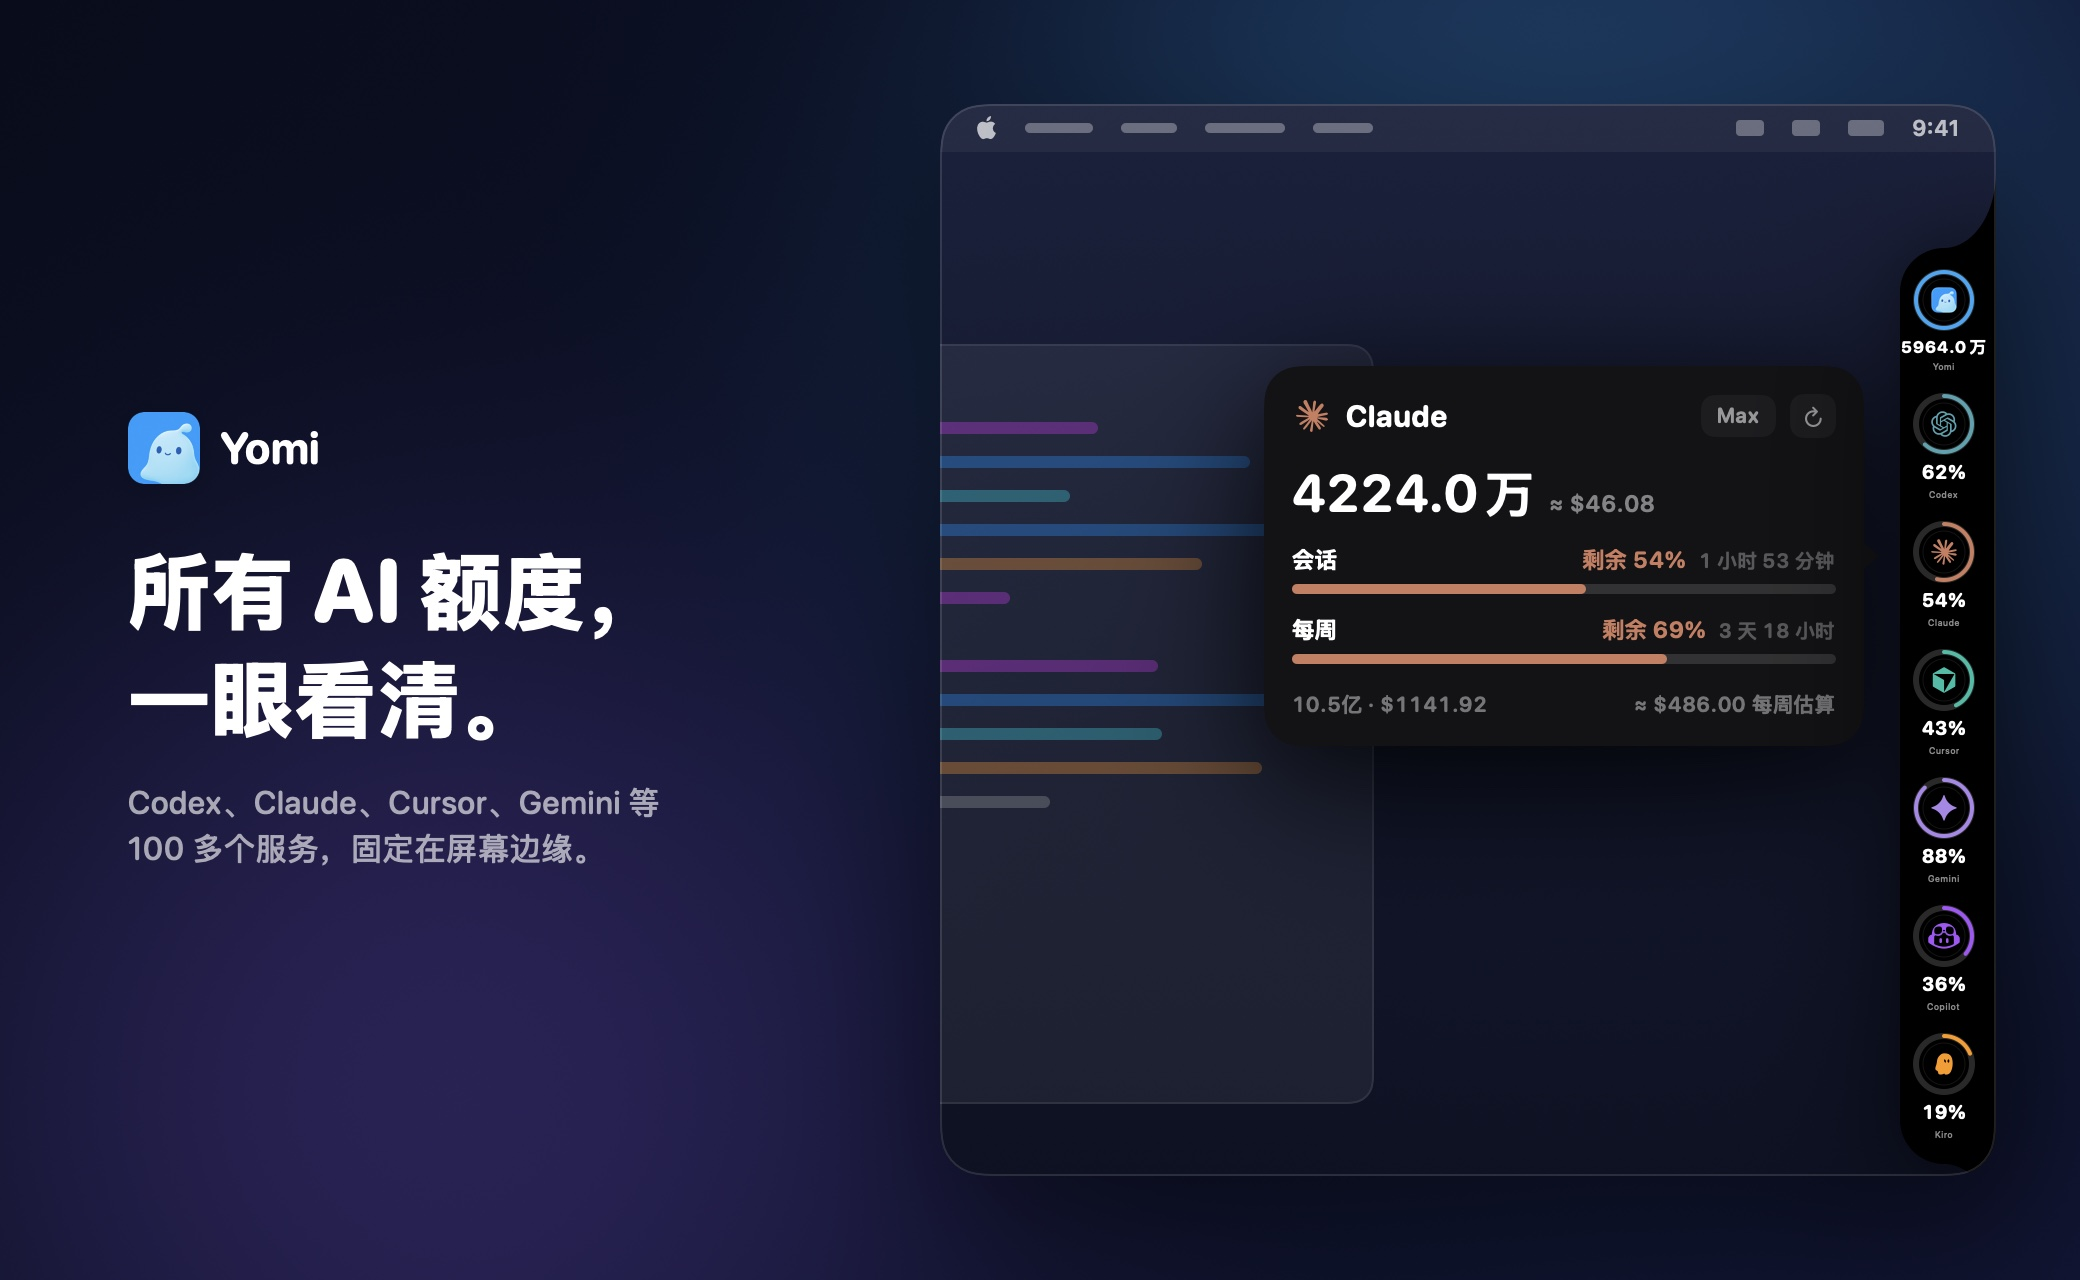
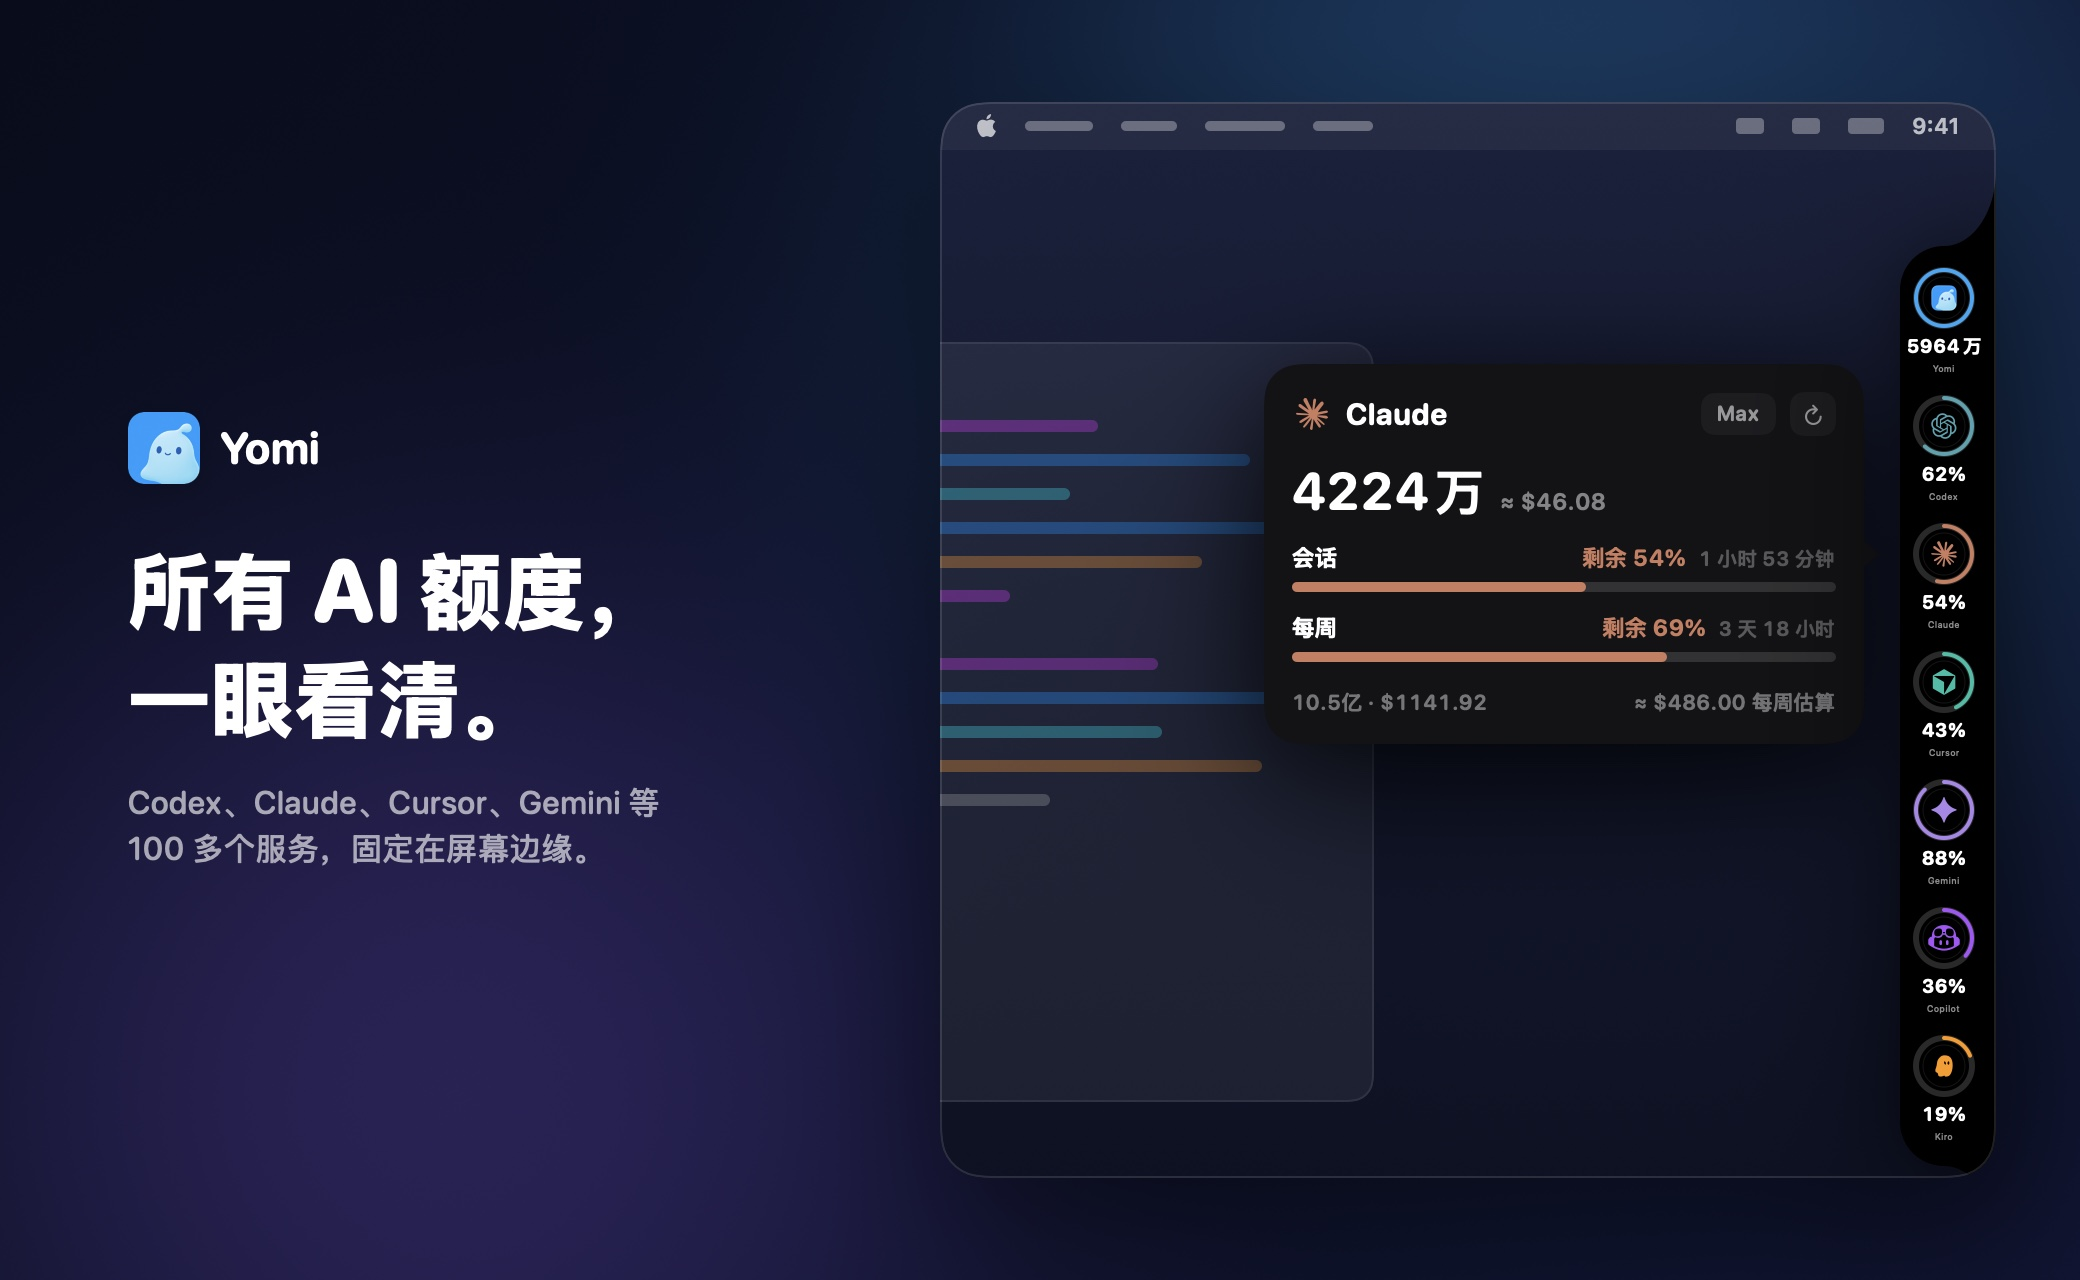
测试不再联网，中文数字更紧凑，修复 OMP 目录处理

diff --git a/Yomi/PiSessionUsage.swift b/Yomi/PiSessionUsage.swift
@@ -45,14 +45,18 @@ nonisolated enum PiSessionUsageReader {
     }
 
     // OMP（oh-my-pi）的目录规则对齐 CodexBar 的 OMPSessionRootResolver：
-    // 指定了 profile 只读该 profile；否则读默认目录，并把磁盘上所有 profile 一起算上。
+    // 指定了 profile 只读该 profile；两个 profile 变量都没设时读默认目录，并把磁盘上所有 profile 一起算上。
     private static func ompSessionRoots(homeDirectory: URL, environment: [String: String]) -> [URL] {
         let configName = environment["PI_CONFIG_DIR"]?.trimmingCharacters(in: .whitespacesAndNewlines)
         let name = configName?.isEmpty == false ? configName! : ".omp"
-        // 配置目录只能是主目录下的相对路径，越界时不读。
+        // 配置目录只能是主目录本身或其下的相对路径，越界时不读。
         guard !name.hasPrefix("/") else { return [] }
-        let configRoot = homeDirectory.appending(path: name, directoryHint: .isDirectory)
-        guard configRoot.standardizedFileURL.path.hasPrefix(homeDirectory.standardizedFileURL.path + "/") else { return [] }
+        let joined = homeDirectory.appending(path: name, directoryHint: .isDirectory)
+        let homePath = homeDirectory.standardizedFileURL.path
+        let configPath = joined.standardizedFileURL.path
+        guard configPath == homePath || configPath.hasPrefix(homePath + "/") else { return [] }
+        // 只做边界判断时才规范化；规范化会去掉 /private，和缓存里的路径对不上。
+        let configRoot = configPath == homePath ? homeDirectory : joined
         let customAgent = path(environment["PI_CODING_AGENT_DIR"], home: homeDirectory)
         let dataHome = path(environment["XDG_DATA_HOME"], home: homeDirectory)
             ?? homeDirectory.appending(path: ".local/share", directoryHint: .isDirectory)
@@ -63,8 +67,8 @@ nonisolated enum PiSessionUsageReader {
                 .filter(isDirectory)
         }
 
-        let rawProfile = (environment["OMP_PROFILE"] ?? environment["PI_PROFILE"])?
-            .trimmingCharacters(in: .whitespacesAndNewlines) ?? ""
+        let profileValue = environment["OMP_PROFILE"] ?? environment["PI_PROFILE"]
+        let rawProfile = profileValue?.trimmingCharacters(in: .whitespacesAndNewlines) ?? ""
         if !rawProfile.isEmpty, rawProfile != "default" {
             // profile 名称不合法时不读，避免拼出意外的路径。
             guard rawProfile.range(of: #"^[a-z0-9][a-z0-9._-]{0,63}$"#, options: .regularExpression) != nil,
@@ -83,10 +87,18 @@ nonisolated enum PiSessionUsageReader {
             roots.append(dataHome.appending(path: "omp/sessions", directoryHint: .isDirectory))
             profileParents.append(dataHome.appending(path: "omp/profiles", directoryHint: .isDirectory))
         }
+        // 显式选了 default 时只读默认目录，不混入其他 profile。
+        guard profileValue == nil else { return roots }
         for parent in profileParents {
-            let profiles = (try? FileManager.default.contentsOfDirectory(
+            guard let profiles = try? FileManager.default.contentsOfDirectory(
                 at: parent, includingPropertiesForKeys: [.isDirectoryKey], options: [.skipsHiddenFiles]
-            )) ?? []
+            ) else {
+                // 目录在但读不了时把它本身交给上层，上层读不了会沿用它下面各 profile 的缓存，不会把已有统计清掉。
+                var status = stat()
+                let exists = parent.path.withCString { fstatat(AT_FDCWD, $0, &status, 0) } == 0
+                if exists || (errno != ENOENT && errno != ENOTDIR) { roots.append(parent) }
+                continue
+            }
             // 与 CodexBar 一致，最多读 64 个 profile 目录。
             roots += profiles.sorted { $0.path < $1.path }.flatMap(layouts).prefix(64)
         }

diff --git a/YomiTests/PiSessionUsageTests.swift b/YomiTests/PiSessionUsageTests.swift
@@ -100,6 +100,49 @@ struct PiSessionUsageTests {
 
         let invalid = PiSessionUsageReader.sessionRoots(homeDirectory: home, environment: ["OMP_PROFILE": "../x"])
         #expect(invalid.count == 1)
+
+        // 显式选 default 只读默认目录，不再把其他 profile 算进来。
+        for key in ["OMP_PROFILE", "PI_PROFILE"] {
+            let explicitDefault = PiSessionUsageReader.sessionRoots(
+                homeDirectory: home, environment: [key: "default", "XDG_DATA_HOME": "/nonexistent"]
+            ).map { $0.path.replacingOccurrences(of: home.path, with: "~") }
+            #expect(explicitDefault == ["~/.pi/agent/sessions", "~/.omp/agent/sessions", "/nonexistent/omp/sessions"])
+        }
+
+        // 配置目录可以就是主目录本身。
+        let homeConfig = PiSessionUsageReader.sessionRoots(
+            homeDirectory: home, environment: ["PI_CONFIG_DIR": ".", "XDG_DATA_HOME": "/nonexistent"]
+        ).map { $0.path.replacingOccurrences(of: home.path, with: "~") }
+        #expect(homeConfig == ["~/.pi/agent/sessions", "~/agent/sessions", "/nonexistent/omp/sessions"])
+    }
+
+    @Test
+    func unreadableOMPProfilesKeepPreviousTotals() async throws {
+        let home = FileManager.default.temporaryDirectory.appending(path: "pi-\(UUID().uuidString)")
+        let profiles = home.appending(path: ".omp/profiles")
+        let directory = profiles.appending(path: "work/sessions")
+        defer {
+            try? FileManager.default.setAttributes([.posixPermissions: 0o755], ofItemAtPath: profiles.path)
+            try? FileManager.default.removeItem(at: home)
+        }
+        try FileManager.default.createDirectory(at: directory, withIntermediateDirectories: true)
+        let now = Date()
+        let session = Self.assistant(
+            id: "m1", provider: "anthropic", model: "claude-sonnet-4-5", at: now.addingTimeInterval(-60),
+            usage: ["input": 10, "output": 5]
+        ) + "\n"
+        try Data(session.utf8).write(to: directory.appending(path: "a.jsonl"))
+        let scanner = LocalDailyUsageScanner()
+        func scan() async -> Int64? {
+            await scanner.scan(
+                providerID: ProviderID(rawValue: "pi"), currentWeekStart: now.addingTimeInterval(-86_400), now: now,
+                homeDirectory: home
+            )?.today?.tokens
+        }
+        #expect(await scan() == 15)
+
+        try FileManager.default.setAttributes([.posixPermissions: 0o000], ofItemAtPath: profiles.path)
+        #expect(await scan() == 15)
     }
 
     @Test

diff --git a/YomiTests/TraeCNUsageTests.swift b/YomiTests/TraeCNUsageTests.swift
@@ -62,6 +62,22 @@ struct TraeCNUsageTests {
     }
 
     @Test
+    func redirectToLoginPageIsTreatedAsExpiredSession() async {
+        TraeCNTestURLProtocol.requests = []
+        TraeCNTestURLProtocol.redirects = ["/cloudide/api/v3/common/GetUserToken": "https://www.trae.cn/login"]
+        TraeCNTestURLProtocol.responses = ["/login": "<html>login</html>"]
+        defer { TraeCNTestURLProtocol.redirects = [:] }
+        let configuration = URLSessionConfiguration.ephemeral
+        configuration.protocolClasses = [TraeCNTestURLProtocol.self]
+
+        // 跟随跳转会拿到登录页 HTML 当成格式错误；不跟随才会判定会话过期，继续试下一个会话。
+        await #expect(throws: TraeCNUsageError.sessionExpired) {
+            try await TraeCNUsageFetcher.fetch(manualCookie: "sessionid=expired", session: URLSession(configuration: configuration))
+        }
+        #expect(!TraeCNTestURLProtocol.requests.contains { $0.url?.path == "/login" })
+    }
+
+    @Test
     func code1001MeansExpiredSession() async {
         TraeCNTestURLProtocol.requests = []
         TraeCNTestURLProtocol.responses = [
@@ -79,6 +95,7 @@ struct TraeCNUsageTests {
 
 private nonisolated final class TraeCNTestURLProtocol: URLProtocol {
     nonisolated(unsafe) static var responses: [String: String] = [:]
+    nonisolated(unsafe) static var redirects: [String: String] = [:]
     nonisolated(unsafe) static var requests: [URLRequest] = []
 
     override class func canInit(with request: URLRequest) -> Bool { true }
@@ -86,6 +103,15 @@ private nonisolated final class TraeCNTestURLProtocol: URLProtocol {
 
     override func startLoading() {
         Self.requests.append(request)
+        if let location = Self.redirects[request.url?.path ?? ""], let target = URL(string: location) {
+            let redirect = HTTPURLResponse(
+                url: request.url!, statusCode: 302, httpVersion: nil, headerFields: ["Location": location]
+            )!
+            client?.urlProtocol(self, wasRedirectedTo: URLRequest(url: target), redirectResponse: redirect)
+            client?.urlProtocol(self, didReceive: redirect, cacheStoragePolicy: .notAllowed)
+            client?.urlProtocolDidFinishLoading(self)
+            return
+        }
         let body = Self.responses[request.url?.path ?? ""]
         let response = HTTPURLResponse(
             url: request.url!, statusCode: body == nil ? 404 : 200, httpVersion: nil, headerFields: nil

diff --git a/YomiTests/ProductShotTests.swift b/YomiTests/ProductShotTests.swift
@@ -10,7 +10,7 @@ import Testing
 struct ProductShotTests {
     private static let outputDirectory = URL(fileURLWithPath: "/tmp/yomi-product-shots", isDirectory: true)
     private static let repositoryRoot = URL(fileURLWithPath: #filePath).deletingLastPathComponent().deletingLastPathComponent()
-    private static let demoProviders = ["codex", "claude", "cursor", "gemini", "copilot", "kiro"]
+    fileprivate static let demoProviders = ["codex", "claude", "cursor", "gemini", "copilot", "kiro"]
 
     @Test
     func renderProductShots() async throws {
@@ -324,9 +324,13 @@ private struct ProductShotCanvas: View {
     }
 
     // 详情卡箭头在卡片垂直中点，对准侧边栏第三个圆环（Claude）的圆心。
-    // 每行（圆环、百分比、名称加间距）按实际渲染量得约 64pt。
+    // 侧边栏高度按 UsageRailView.reportContentHeight 的公式算出，这里反推每行高度。
     private var cardOffset: CGFloat {
-        let rowPitch: CGFloat = 64
+        let rows = CGFloat(ProductShotTests.demoProviders.count + 1)
+        let fixed = UsageRailLayout.contentInset + UsageRailLayout.bottomContentInset
+            + UsageRailLayout.settingsAreaHeight + UsageRailLayout.providerSectionVerticalPadding * 2
+        let rowHeight = (rail.size.height - fixed - (rows - 1) * UsageRailLayout.providerSpacing) / rows
+        let rowPitch = rowHeight + UsageRailLayout.providerSpacing
         let claudeCenter = UsageRailLayout.contentInset + UsageRailLayout.providerSectionVerticalPadding
             + 2 * rowPitch + UsageRailLayout.providerRingDiameter / 2
         return max(0, claudeCenter - card.size.height / 2)

diff --git a/Yomi/BrowserCookieAccess.swift b/Yomi/BrowserCookieAccess.swift
@@ -111,12 +111,24 @@ nonisolated enum BrowserCookieAccess {
     }
 
     // 不弹窗的钥匙串查询：同时设置 LAContext 和旧式钥匙串的 UI-fail 标志。
+    // 只设 interactionNotAllowed 时 macOS 仍可能弹“允许/拒绝”，所以旧标志必须保留。
     static func applyNoUI(to query: inout [String: Any]) {
         let context = LAContext()
         context.interactionNotAllowed = true
         query[kSecUseAuthenticationContext as String] = context
-        query[kSecUseAuthenticationUI as String] = kSecUseAuthenticationUIFail
+        query[kSecUseAuthenticationUI as String] = authenticationUIFailPolicy as CFString
     }
+
+    // 与 CodexBar 一致，运行时读取 kSecUseAuthenticationUIFail 的值，避免编译时引用已弃用的常量。
+    static let authenticationUIFailPolicy: String = {
+        guard let handle = dlopen("/System/Library/Frameworks/Security.framework/Security", RTLD_NOW) else {
+            return "u_AuthUIF"
+        }
+        defer { dlclose(handle) }
+        guard let symbol = dlsym(handle, "kSecUseAuthenticationUIFail"),
+              let value = symbol.assumingMemoryBound(to: CFString?.self).pointee else { return "u_AuthUIF" }
+        return value as String
+    }()
 
     // 只查条目是否存在，不读取密码，不会触发授权弹窗。
     static func foreignKeychainItemExists(service: String, account: String) -> Bool {

diff --git a/Yomi/ProviderDetailCard.swift b/Yomi/ProviderDetailCard.swift
@@ -825,11 +825,17 @@ func cachedUsageStatus(_ usage: ProviderUsage, language: AppLanguage) -> String?
 
 func compactTokenCount(_ value: Int64, language: AppLanguage) -> String {
     if language == .simplifiedChinese {
-        if value >= 100_000_000 {
-            return String(format: "%.1f亿", Double(value) / 100_000_000)
+        // 整数部分到四位就不显示小数，免得“5964.0万”在侧边栏里放不下。
+        func scaled(_ unit: Double, _ suffix: String) -> String {
+            let amount = Double(value) / unit
+            return String(format: amount >= 999.95 ? "%.0f%@" : "%.1f%@", amount, suffix)
+        }
+        // 9999.5 万以上会四舍五入成“10000万”，直接进位到亿。
+        if value >= 99_995_000 {
+            return scaled(100_000_000, "亿")
         }
         if value >= 10_000 {
-            return String(format: "%.1f万", Double(value) / 10_000)
+            return scaled(10_000, "万")
         }
     } else {
         if value >= 1_000_000_000 {

diff --git a/Yomi/AppDelegate.swift b/Yomi/AppDelegate.swift
@@ -4,6 +4,9 @@ import SwiftUI
 
 @MainActor
 final class AppDelegate: NSObject, NSApplicationDelegate, NSWindowDelegate {
+    /// 作为单元测试宿主启动时为 true；这时不建侧边栏、不刷新、不检查更新，避免测试用真实凭据联网。
+    nonisolated static let isRunningTests = ProcessInfo.processInfo.environment["XCTestConfigurationFilePath"] != nil
+
     private static let panelVerticalPositionKey = "panel-vertical-position"
     private static let providerDetailDismissDelay: Duration = .milliseconds(110)
     private static let providerDetailPointerCheckInterval: Duration = .milliseconds(40)
@@ -25,6 +28,7 @@ final class AppDelegate: NSObject, NSApplicationDelegate, NSWindowDelegate {
 
     func applicationDidFinishLaunching(_ notification: Notification) {
         NSApp.setActivationPolicy(.accessory)
+        guard !Self.isRunningTests else { return }
         restorePanelPosition()
         createPanel()
         store.start()

diff --git a/YomiTests/CompactTokenCountTests.swift b/YomiTests/CompactTokenCountTests.swift
@@ -1,0 +1,25 @@
+import Testing
+@testable import Yomi
+
+struct CompactTokenCountTests {
+    @Test(arguments: [
+        (Int64(9_999), "9,999"),
+        (12_345, "1.2万"),
+        (1_234_567, "123.5万"),
+        (9_994_999, "999.5万"),
+        (9_999_500, "1000万"),
+        (59_640_000, "5964万"),
+        (99_994_999, "9999万"),
+        (99_995_000, "1.0亿"),
+        (1_050_000_000, "10.5亿"),
+    ])
+    func chineseDropsDecimalsOnceFourDigitsAreShown(value: Int64, expected: String) {
+        #expect(compactTokenCount(value, language: .simplifiedChinese) == expected)
+    }
+
+    @Test
+    func englishFormatIsUnchanged() {
+        #expect(compactTokenCount(59_640_000, language: .english) == "59.6M")
+        #expect(compactTokenCount(1_050_000_000, language: .english) == "1.1B")
+    }
+}

diff --git a/YomiTests/KeychainNoUIQueryTests.swift b/YomiTests/KeychainNoUIQueryTests.swift
@@ -1,0 +1,19 @@
+import Foundation
+import LocalAuthentication
+import Security
+import Testing
+@testable import Yomi
+
+struct KeychainNoUIQueryTests {
+    @Test
+    func noUIQueryKeepsBothSilentFlags() throws {
+        var query: [String: Any] = [:]
+        BrowserCookieAccess.applyNoUI(to: &query)
+
+        // 运行时读到的值必须就是系统常量，否则旧式钥匙串仍会弹授权框。
+        #expect(BrowserCookieAccess.authenticationUIFailPolicy == "u_AuthUIF")
+        #expect(query[kSecUseAuthenticationUI as String] as? String == "u_AuthUIF")
+        let context = try #require(query[kSecUseAuthenticationContext as String] as? LAContext)
+        #expect(context.interactionNotAllowed)
+    }
+}

diff --git a/Yomi/UpdateController.swift b/Yomi/UpdateController.swift
@@ -58,7 +58,7 @@ final class UpdateController: ObservableObject {
         }
 
         let controller = SPUStandardUpdaterController(
-            startingUpdater: true,
+            startingUpdater: !AppDelegate.isRunningTests,
             updaterDelegate: nil,
             userDriverDelegate: userDriverDelegate
         )

diff --git a/YomiTests/AppDelegateTests.swift b/YomiTests/AppDelegateTests.swift
@@ -1,0 +1,10 @@
+import Testing
+@testable import Yomi
+
+struct AppDelegateTests {
+    // 测试宿主就是 Yomi.app，必须识别出测试环境，才不会建侧边栏、用真实凭据刷新或检查更新。
+    @Test
+    func testHostIsDetected() {
+        #expect(AppDelegate.isRunningTests)
+    }
+}
